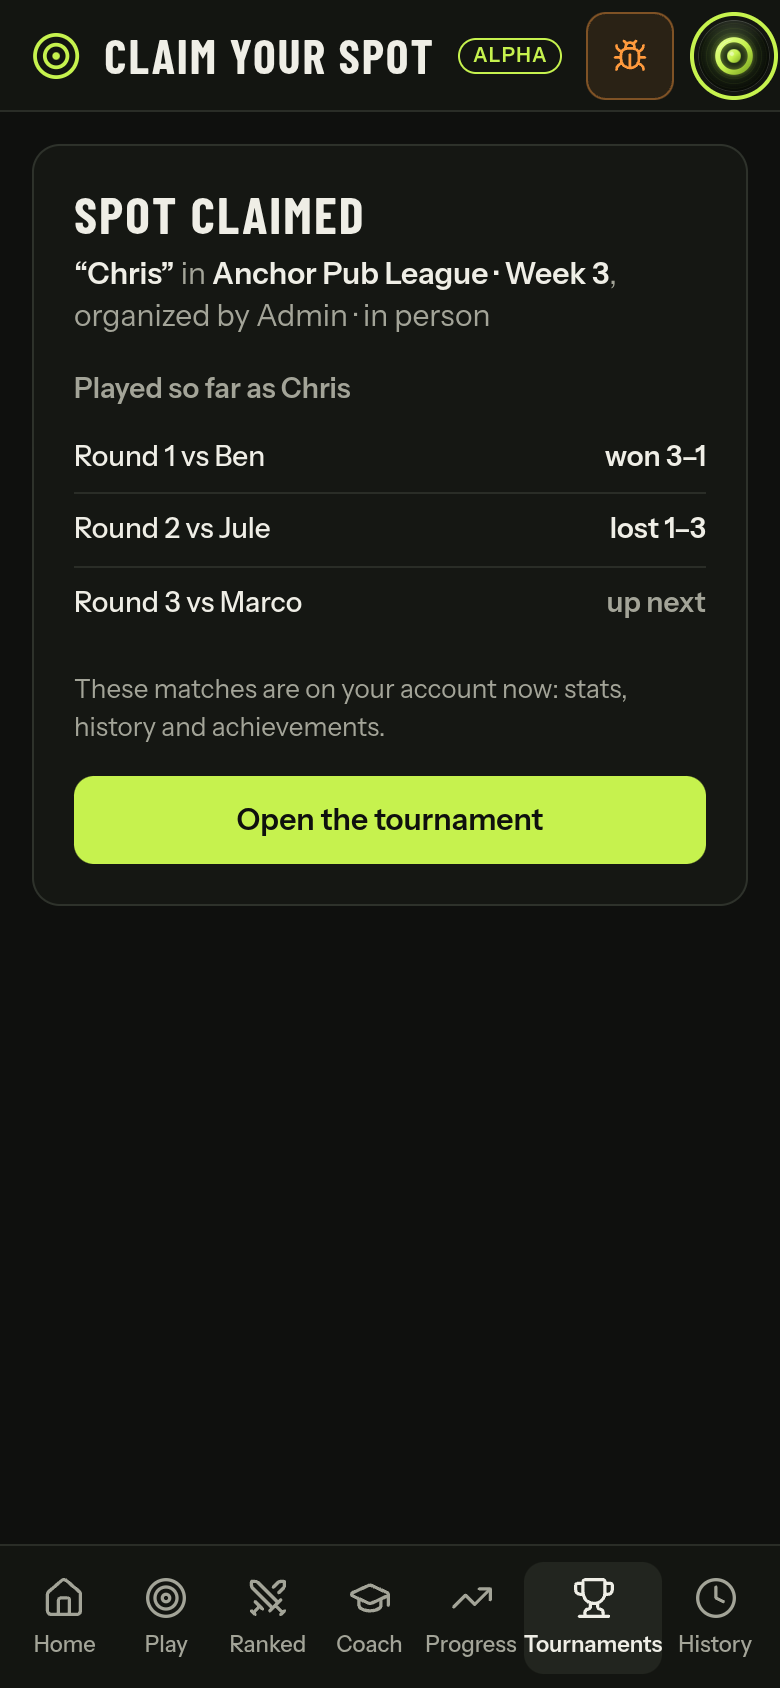
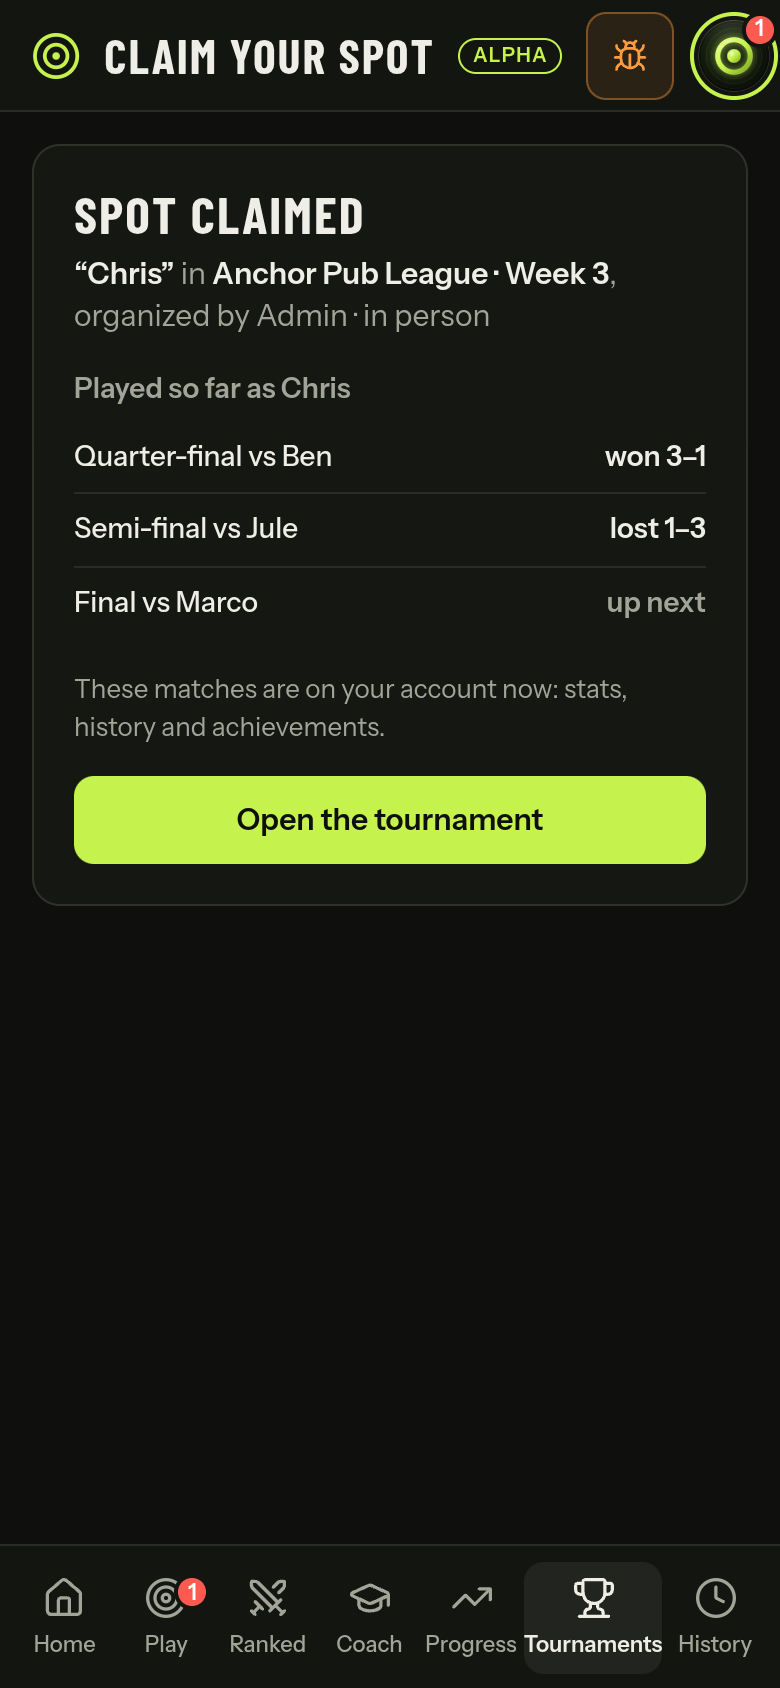
fix(tournaments): title each played match by its bracket on the claim page

diff --git a/backend/src/db/tournamentClaim.ts b/backend/src/db/tournamentClaim.ts
@@ -5,6 +5,8 @@ import { randomBytes } from 'node:crypto'
 import type { Kysely, Transaction } from 'kysely'
 import type { Database } from './schema.js'
 import type { components } from '../schema/api.js'
+import { BRACKET_ORDER } from '../shared/tournaments/bracket.js'
+import { matchTitle } from '../shared/tournaments/mine.js'
 
 type Played = components['schemas']['TournamentClaim']['played'][number]
 
@@ -79,35 +81,46 @@ export async function holdsOtherSpot(
   return row !== undefined
 }
 
-/** The entry's matches in round order, as the claim page's "Played so far". */
+/** The entry's matches in play order (groups, winners' bracket, lower bracket, final), titled like My tournaments does. */
 export async function playedSoFar(db: Kysely<Database>, spot: Pick<ClaimSpot, 'entryId' | 'tournamentId'>): Promise<Played[]> {
-  const rows = await db
-    .selectFrom('tournament_matches as m')
-    .leftJoin('tournament_entries as a', 'a.id', 'm.entry_a_id')
-    .leftJoin('tournament_entries as b', 'b.id', 'm.entry_b_id')
-    .select([
-      'm.round',
-      'm.status',
-      'm.outcome',
-      'm.winner_entry_id',
-      'm.legs_a',
-      'm.legs_b',
-      'm.entry_a_id',
-      'a.name as a_name',
-      'b.name as b_name',
-    ])
-    .where('m.tournament_id', '=', spot.tournamentId)
-    .where(eb => eb.or([eb('m.entry_a_id', '=', spot.entryId), eb('m.entry_b_id', '=', spot.entryId)]))
-    .orderBy('m.round')
-    .orderBy('m.slot')
-    .execute()
+  const [rows, rounds] = await Promise.all([
+    db
+      .selectFrom('tournament_matches as m')
+      .leftJoin('tournament_entries as a', 'a.id', 'm.entry_a_id')
+      .leftJoin('tournament_entries as b', 'b.id', 'm.entry_b_id')
+      .select([
+        'm.bracket',
+        'm.group_no',
+        'm.round',
+        'm.slot',
+        'm.status',
+        'm.outcome',
+        'm.winner_entry_id',
+        'm.legs_a',
+        'm.legs_b',
+        'm.entry_a_id',
+        'a.name as a_name',
+        'b.name as b_name',
+      ])
+      .where('m.tournament_id', '=', spot.tournamentId)
+      .where(eb => eb.or([eb('m.entry_a_id', '=', spot.entryId), eb('m.entry_b_id', '=', spot.entryId)]))
+      .execute(),
+    db
+      .selectFrom('tournament_matches')
+      .select(eb => eb.fn.max('round').as('rounds'))
+      .where('tournament_id', '=', spot.tournamentId)
+      .where('bracket', '=', 'main')
+      .executeTakeFirst(),
+  ])
+  const mainRounds = rounds?.rounds ?? 0
   return rows
     .filter(r => r.outcome !== 'bye')
+    .sort((x, y) => BRACKET_ORDER[x.bracket] - BRACKET_ORDER[y.bracket] || x.round - y.round || x.slot - y.slot)
     .map(r => {
       const mine = r.entry_a_id === spot.entryId
       const finished = r.status === 'finished'
       return {
-        round: r.round,
+        title: matchTitle({ bracket: r.bracket, group: r.group_no, round: r.round }, mainRounds),
         opponent: mine ? r.b_name : r.a_name,
         state: !finished ? 'next' : r.winner_entry_id === spot.entryId ? 'won' : 'lost',
         legs: finished ? (mine ? `${r.legs_a}-${r.legs_b}` : `${r.legs_b}-${r.legs_a}`) : null,

diff --git a/backend/src/api/tournamentClaim.test.ts b/backend/src/api/tournamentClaim.test.ts
@@ -109,6 +109,49 @@ describe.skipIf(!process.env.TEST_DATABASE_URL)('claiming a tournament spot', ()
     expect(counted).toEqual([['g1'], []])
   })
 
+  it('titles each match by its bracket and orders groups, winners, lower bracket and final', async () => {
+    const club = (await send('admin', 'GET', '/api/tournaments/club/participants')).json<Participants>()
+    const chris = codeOf(club, 'Chris')
+    const entry = (await db.selectFrom('tournament_players').select('entry_id').where('id', '=', chris.id).executeTakeFirstOrThrow())
+      .entry_id
+    const rival = (
+      await db
+        .selectFrom('tournament_entries')
+        .select('id')
+        .where('id', '<>', entry)
+        .where('tournament_id', '=', 'club')
+        .executeTakeFirstOrThrow()
+    ).id
+    const add = (bracket: 'group' | 'main' | 'lower' | 'final', round: number, group_no: number | null, finished: boolean) =>
+      db
+        .insertInto('tournament_matches')
+        .values({
+          id: `m-${bracket}-${round}`,
+          tournament_id: 'club',
+          bracket,
+          group_no,
+          round,
+          slot: 0,
+          entry_a_id: entry,
+          entry_b_id: rival,
+          first_to: 3,
+          status: finished ? 'finished' : 'ready',
+          outcome: finished ? 'played' : null,
+          winner_entry_id: finished ? entry : null,
+          legs_a: finished ? 3 : 0,
+          legs_b: finished ? 1 : 0,
+        })
+        .execute()
+    await add('final', 1, null, false)
+    await add('lower', 1, null, true)
+    await add('main', 1, null, true)
+    await add('main', 2, null, true)
+    await add('group', 1, 2, true)
+    const page = await send('ben', 'GET', `/api/tournaments/claim/${chris.claimCode}`)
+    expect(page.json<Claim>().played.map(p => p.title)).toEqual(['Group 2', 'Semi-final', 'Final', 'Lower bracket, round 1', 'Grand final'])
+    await db.deleteFrom('tournament_matches').where('tournament_id', '=', 'club').execute()
+  })
+
   it('refuses a claimed spot, a second spot in the same tournament and a draft', async () => {
     const club = (await send('admin', 'GET', '/api/tournaments/club/participants')).json<Participants>()
     expect((await send('ben', 'POST', `/api/tournaments/claim/${codeOf(club, 'Chris').claimCode}`)).statusCode).toBe(409)

diff --git a/backend/frontend/src/lib/tournaments/claim.test.ts b/backend/frontend/src/lib/tournaments/claim.test.ts
@@ -5,14 +5,14 @@ const claim = { claimable: true, claimedByMe: false } as Parameters<typeof uncla
 
 describe('claim page', () => {
   it('words each match: result with legs, or up next', () => {
-    expect(playedRow({ round: 1, opponent: 'Ben', state: 'won', legs: '3-1' })).toEqual({
-      title: 'Round 1 vs Ben',
+    expect(playedRow({ title: 'Quarter-final', opponent: 'Ben', state: 'won', legs: '3-1' })).toEqual({
+      title: 'Quarter-final vs Ben',
       result: 'won 3–1',
       tone: 'won',
     })
-    expect(playedRow({ round: 2, opponent: 'Jule', state: 'lost', legs: '1-3' }).result).toBe('lost 1–3')
-    expect(playedRow({ round: 3, opponent: null, state: 'next', legs: null })).toEqual({
-      title: 'Round 3',
+    expect(playedRow({ title: 'Group 2', opponent: 'Jule', state: 'lost', legs: '1-3' }).result).toBe('lost 1–3')
+    expect(playedRow({ title: 'Grand final', opponent: null, state: 'next', legs: null })).toEqual({
+      title: 'Grand final',
       result: 'up next',
       tone: 'next',
     })

diff --git a/backend/frontend/src/lib/tournaments/claim.ts b/backend/frontend/src/lib/tournaments/claim.ts
@@ -33,9 +33,9 @@ export async function claimSpot(code: string): Promise<ClaimResult> {
   }
 }
 
-/** One "Played so far" row: "Round 1 vs Ben" with "won 3–1", "lost 1–3" or "up next". */
+/** One "Played so far" row: "Quarter-final vs Ben" with "won 3–1", "lost 1–3" or "up next". */
 export function playedRow(p: Played): { title: string; result: string; tone: 'won' | 'lost' | 'next' } {
-  const title = `Round ${p.round}${p.opponent ? ` vs ${p.opponent}` : ''}`
+  const title = p.opponent ? `${p.title} vs ${p.opponent}` : p.title
   if (p.state === 'next') return { title, result: 'up next', tone: 'next' }
   return { title, result: `${p.state} ${p.legs ? p.legs.replace('-', '–') : ''}`.trim(), tone: p.state }
 }

diff --git a/backend/frontend/src/lib/api/schema.ts b/backend/frontend/src/lib/api/schema.ts
@@ -5942,9 +5942,10 @@ export interface components {
             teamName: string | null;
             claimable: boolean;
             claimedByMe: boolean;
-            /** @description The entry's matches in round order */
+            /** @description The entry's matches in play order */
             played: {
-                round: number;
+                /** @description The match as My tournaments names it: "Quarter-final", "Group 2", "Lower bracket, round 1", "Grand final" */
+                title: string;
                 opponent: string | null;
                 /** @enum {string} */
                 state: "won" | "lost" | "next";

diff --git a/backend/src/schema/api.ts b/backend/src/schema/api.ts
@@ -5942,9 +5942,10 @@ export interface components {
             teamName: string | null;
             claimable: boolean;
             claimedByMe: boolean;
-            /** @description The entry's matches in round order */
+            /** @description The entry's matches in play order */
             played: {
-                round: number;
+                /** @description The match as My tournaments names it: "Quarter-final", "Group 2", "Lower bracket, round 1", "Grand final" */
+                title: string;
                 opponent: string | null;
                 /** @enum {string} */
                 state: "won" | "lost" | "next";

diff --git a/backend/frontend/src/routes/TournamentClaim.svelte b/backend/frontend/src/routes/TournamentClaim.svelte
@@ -80,7 +80,7 @@
           <div class="flex flex-col gap-1.5">
             <h2 class="text-label font-semibold text-text-muted">Played so far as {claim.spotName}</h2>
             <ul class="flex flex-col p-0">
-              {#each claim.played as p (`${p.round}-${p.opponent ?? ''}`)}
+              {#each claim.played as p (`${p.title}-${p.opponent ?? ''}`)}
                 {@const row = playedRow(p)}
                 <li class="flex items-center justify-between gap-3 border-b border-line py-2 text-label last:border-0">
                   <span class="min-w-0 truncate">{row.title}</span>
